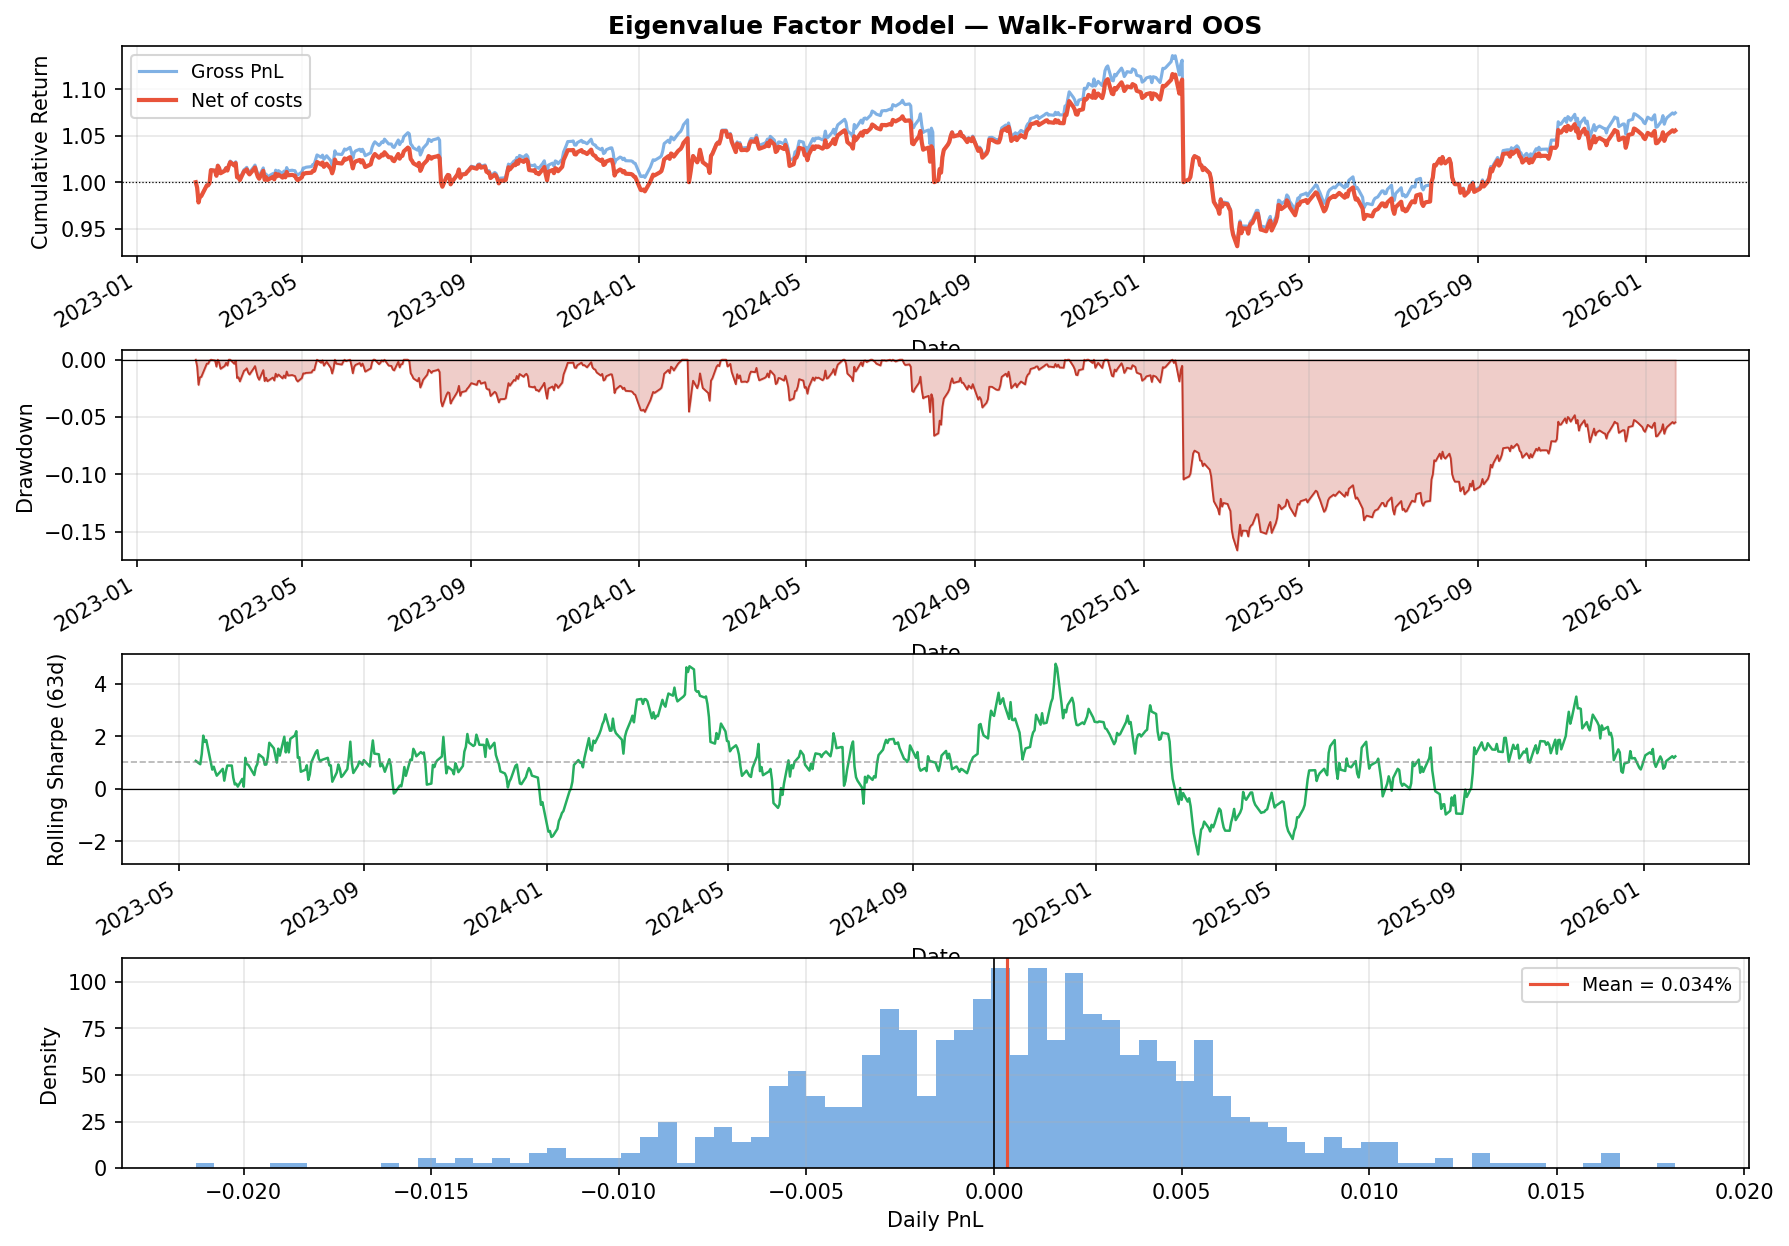
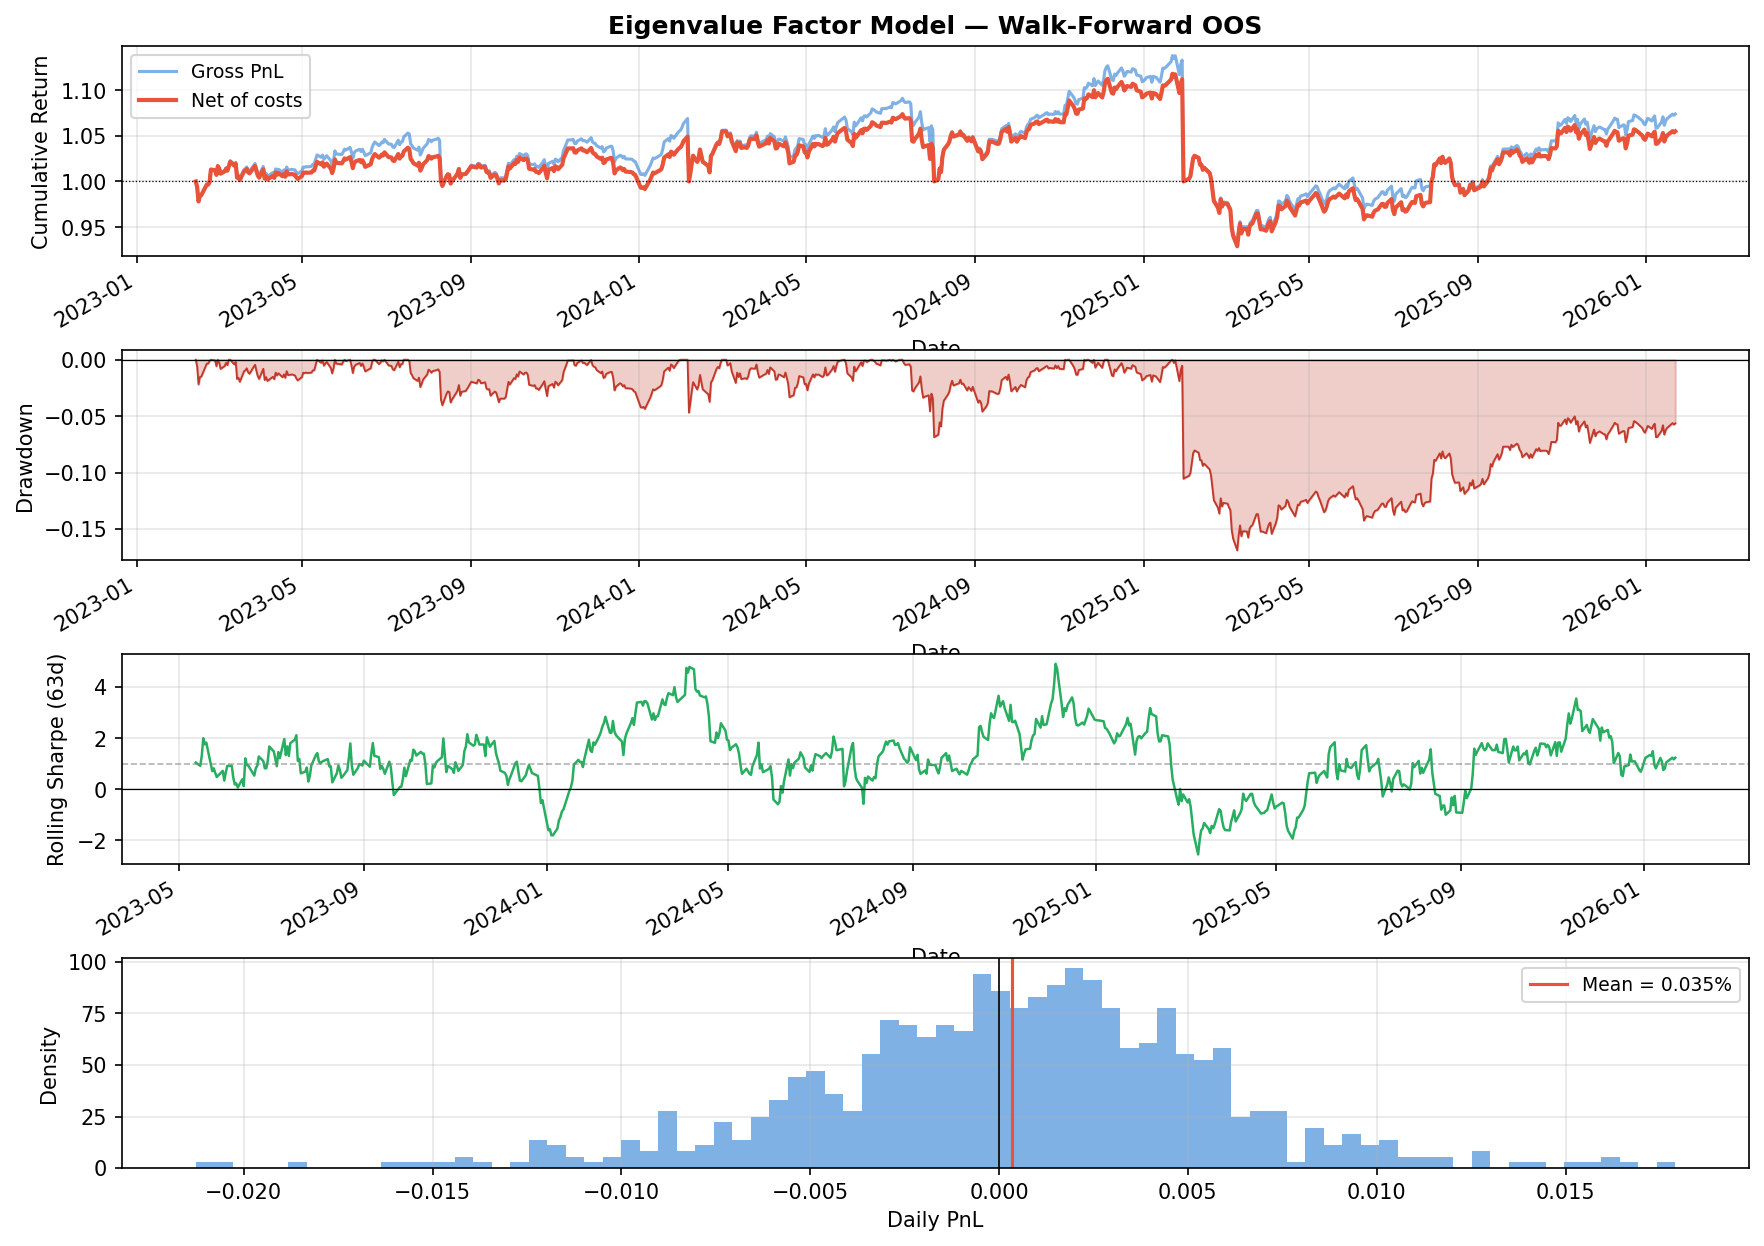
Idiosyncratic momentum undone, back to raw momentum.

diff --git a/main.py b/main.py
@@ -314,7 +314,7 @@ mr_train = build_signal(idio_train_df, lookback=MR_LOOKBACK, decay_halflife=MR_D
 # Removing the market or sector component would strip out the very trends
 # the signal is trying to capture.
 mom_train = momentum_signal(
-    idio_train_df,   # <-- CHANGE HERE
+    train_ret_aligned,   # <-- CHANGE HERE
     fast_window=MOM_FAST,
     slow_window=MOM_SLOW,
     skip_days=5,
@@ -453,7 +453,7 @@ mr_test = build_signal(idio_test_df, lookback=MR_LOOKBACK, decay_halflife=MR_DEC
 # Momentum signal: computed on FULL history (raw returns), sliced to test dates.
 # KEY: we use the full `returns` DataFrame (all dates), then slice.
 # Using only test_returns would give all-NaN because MOM_SLOW=252d > 123d test window.
-mom_test = momentum_signal(idio_test_df, fast_window=MOM_FAST,
+mom_test = momentum_signal(returns, fast_window=MOM_FAST,
                             slow_window=MOM_SLOW, skip_days=5)
 mom_test = mom_test.loc[test_returns.index]   # slice to test dates
 
@@ -516,7 +516,7 @@ def make_signal(idio_df: pd.DataFrame, full_ret: pd.DataFrame) -> pd.DataFrame:
 
     # Momentum built on full raw returns history, then sliced to test window
     mom = momentum_signal(
-        idio_df,
+        full_ret,
         fast_window=MOM_FAST,
         slow_window=MOM_SLOW,
         skip_days=5,
